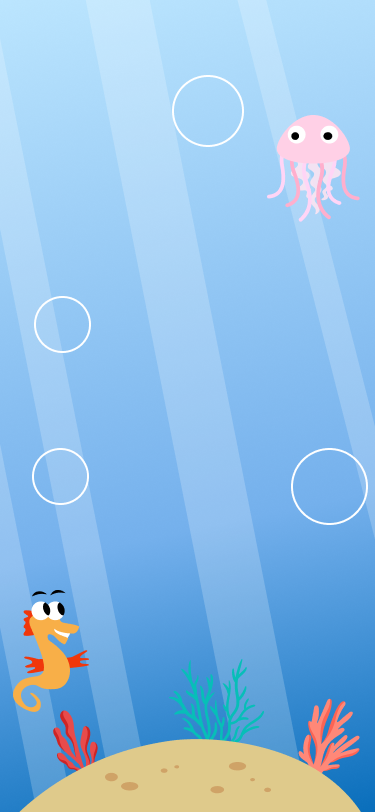
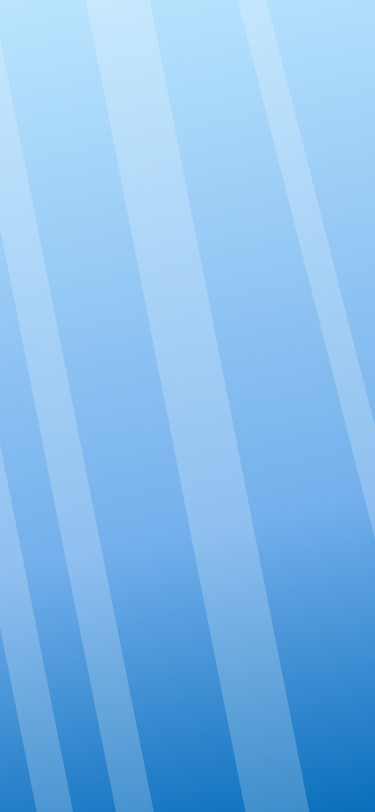
home

diff --git a/src/main.jsx b/src/main.jsx
@@ -1,7 +1,8 @@
 import React, { Children } from 'react';
-import ReactDOM from 'react-dom/client'
+import ReactDOM from 'react-dom/client';
 import { createBrowserRouter, RouterProvider } from "react-router-dom";
 
+import Home from './routes/home.jsx';
 import Root from './routes/root.jsx';
 import ErrorPage from './ui/ErrorPage/index.jsx';
 import './index.css'
@@ -9,11 +10,9 @@ import './index.css'
 const router = createBrowserRouter([
   {
     path: '/',
-    element: <Root />,
-    errorElement: <ErrorPage />,
+    element: <Home />,
   }
 ]);
-
 
 const rootElement = document.querySelector('#root');
 

diff --git a/src/routes/home.jsx b/src/routes/home.jsx
@@ -1,6 +1,9 @@
-
 export default function Home() {
-    <div>
-        
-    </div>
+    return (
+        <div className="bg-wallpaper-mobile flex-col h-screen bg-no-repeat bg-cover flex justify-center items-center">
+            <img className="max-h-screen absolute bottom-0" src="/wallpaper-mobile-plus.png" alt="" />
+            <h1 className="z-10 text-5xl mb-16">Bonjour</h1>
+            <p className="z-10 text-4xl text-center">Bienvenue sur <br/> M'T DENTS !</p>
+        </div>
+    );
 }

diff --git a/src/index.css b/src/index.css
@@ -2,6 +2,13 @@
 @tailwind components;
 @tailwind utilities;
 
+@layer base {
+  @font-face {
+    font-family: 'fredokaOne';
+    src: url(/public/fonts/FredokaOne-Regular.ttf) format('truetype');
+  }
+}
+
 :root {
   /* Primary Tokens */
 
@@ -19,5 +26,4 @@
   --text: var(--black);
   --background: var(--light-blue);
   --input-background: var(--white);
-  
 }

diff --git a/index.html b/index.html
@@ -4,7 +4,7 @@
     <meta charset="UTF-8" />
     <link rel="icon" type="image/svg+xml" href="/vite.svg" />
     <meta name="viewport" content="width=device-width, initial-scale=1.0" />
-    <title>Robin le requin</title>
+    <title>Robin le Requin</title>
   </head>
   <body>
     <div id="root"></div>

diff --git a/tailwind.config.js b/tailwind.config.js
@@ -6,11 +6,8 @@ export default {
   ],
   theme: {
     extend: {
-      colors: {
-
-      },
       backgroundImage: {
-        'wallpaper-mobile': "url('wallpaper-mobile.png)"
+        'wallpaper-mobile': "url('./assets/wallpaper-mobile.png')",
       }
     },
   },
